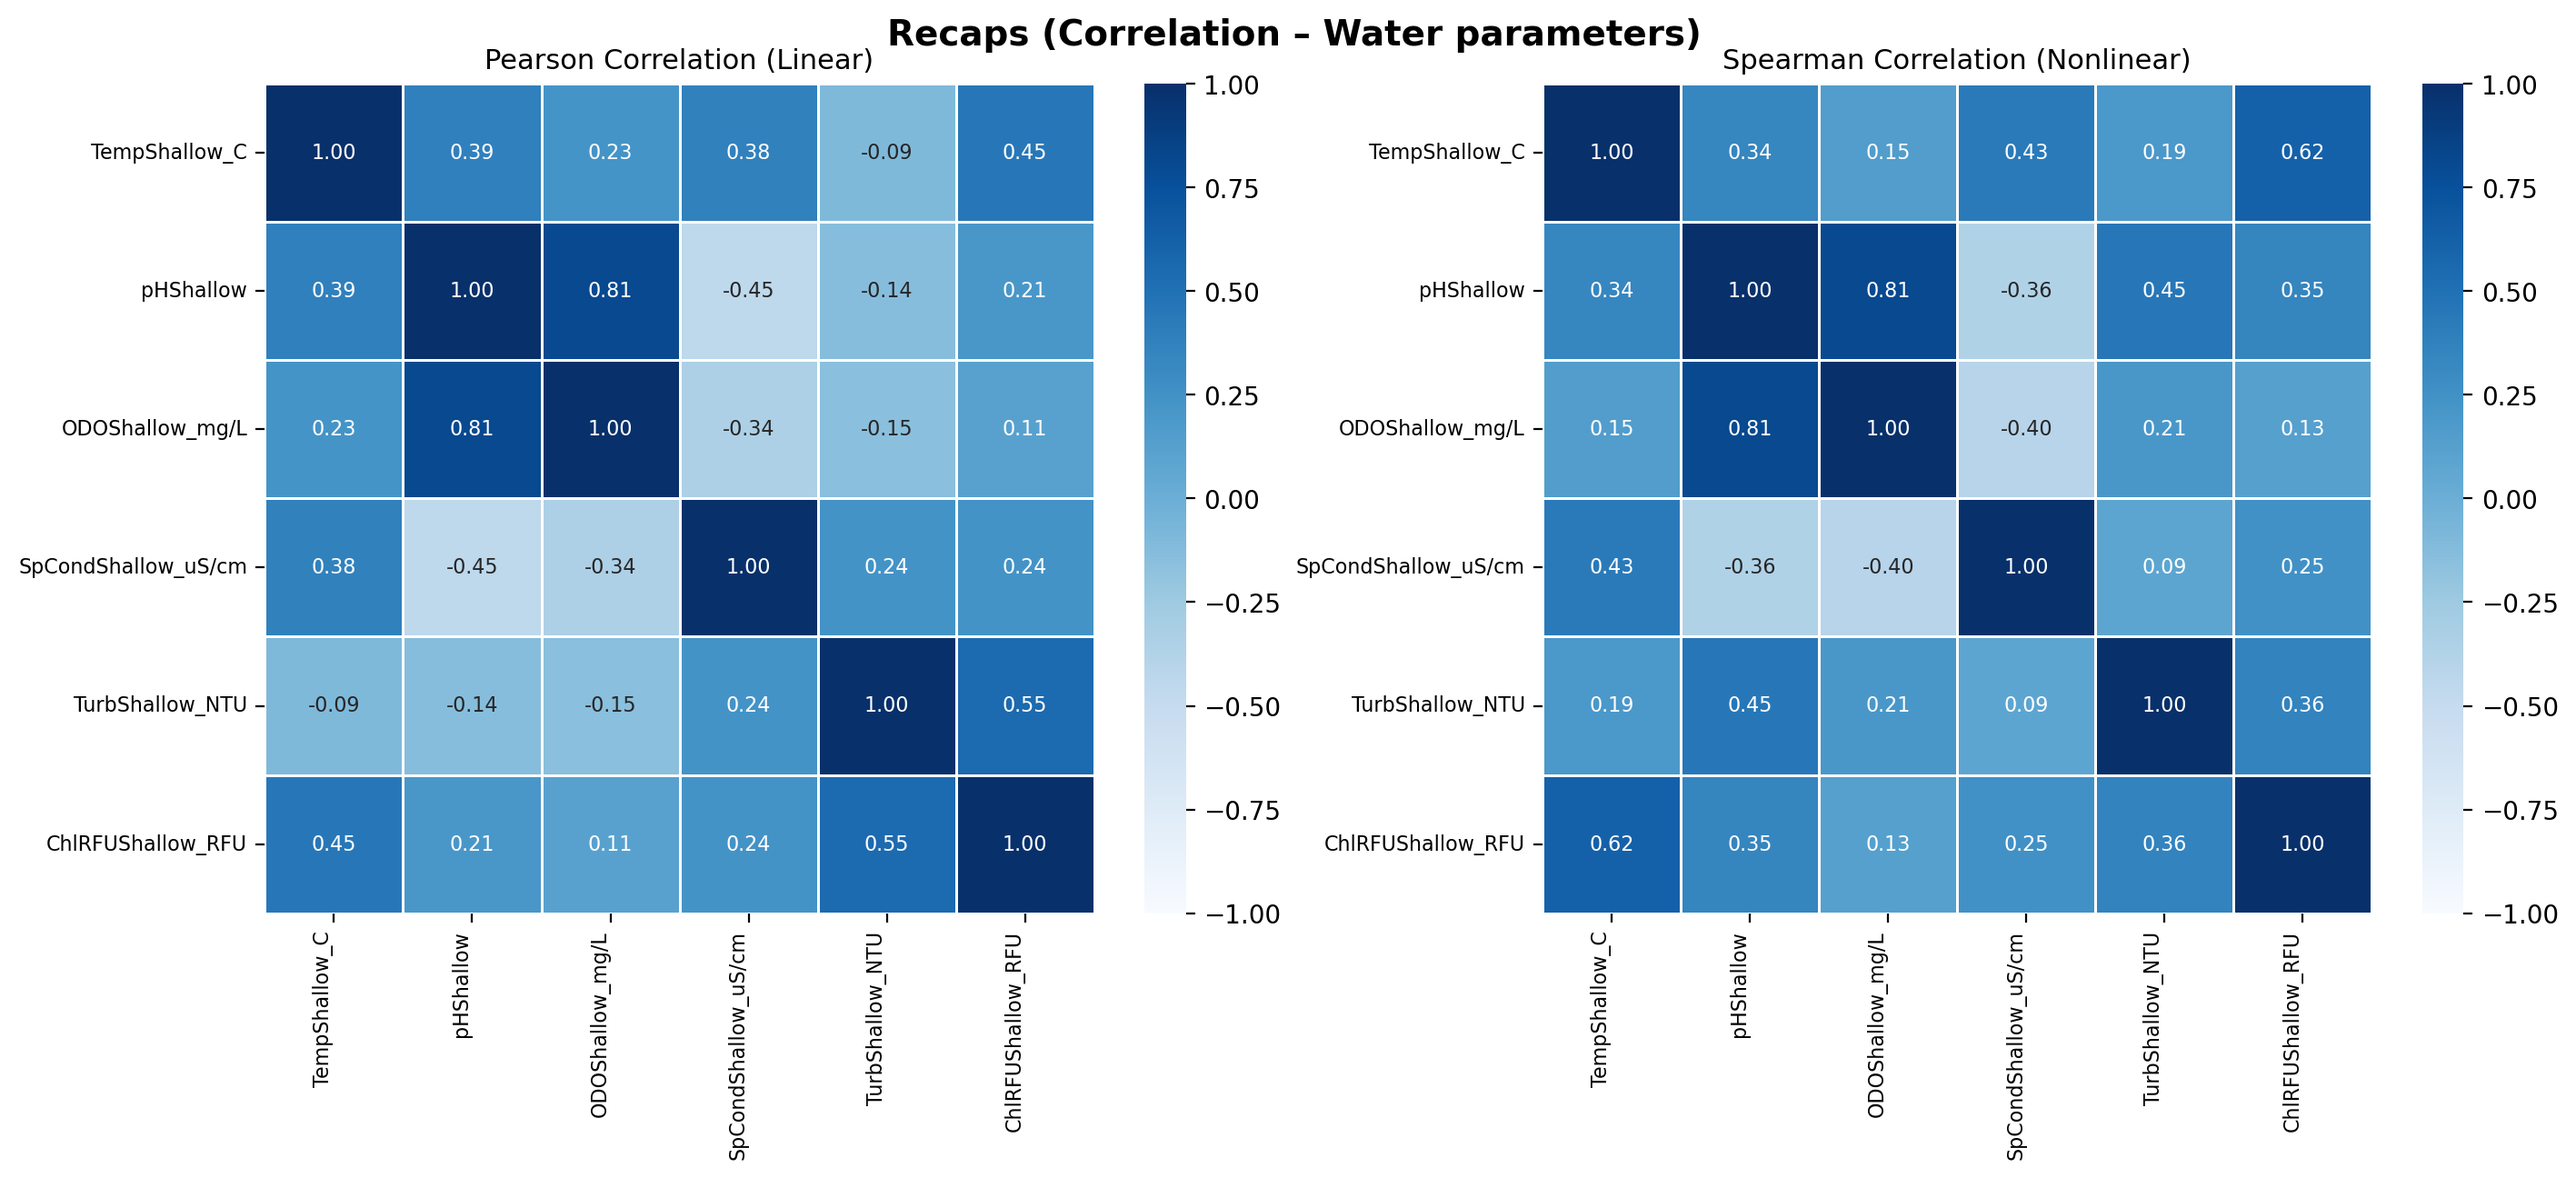
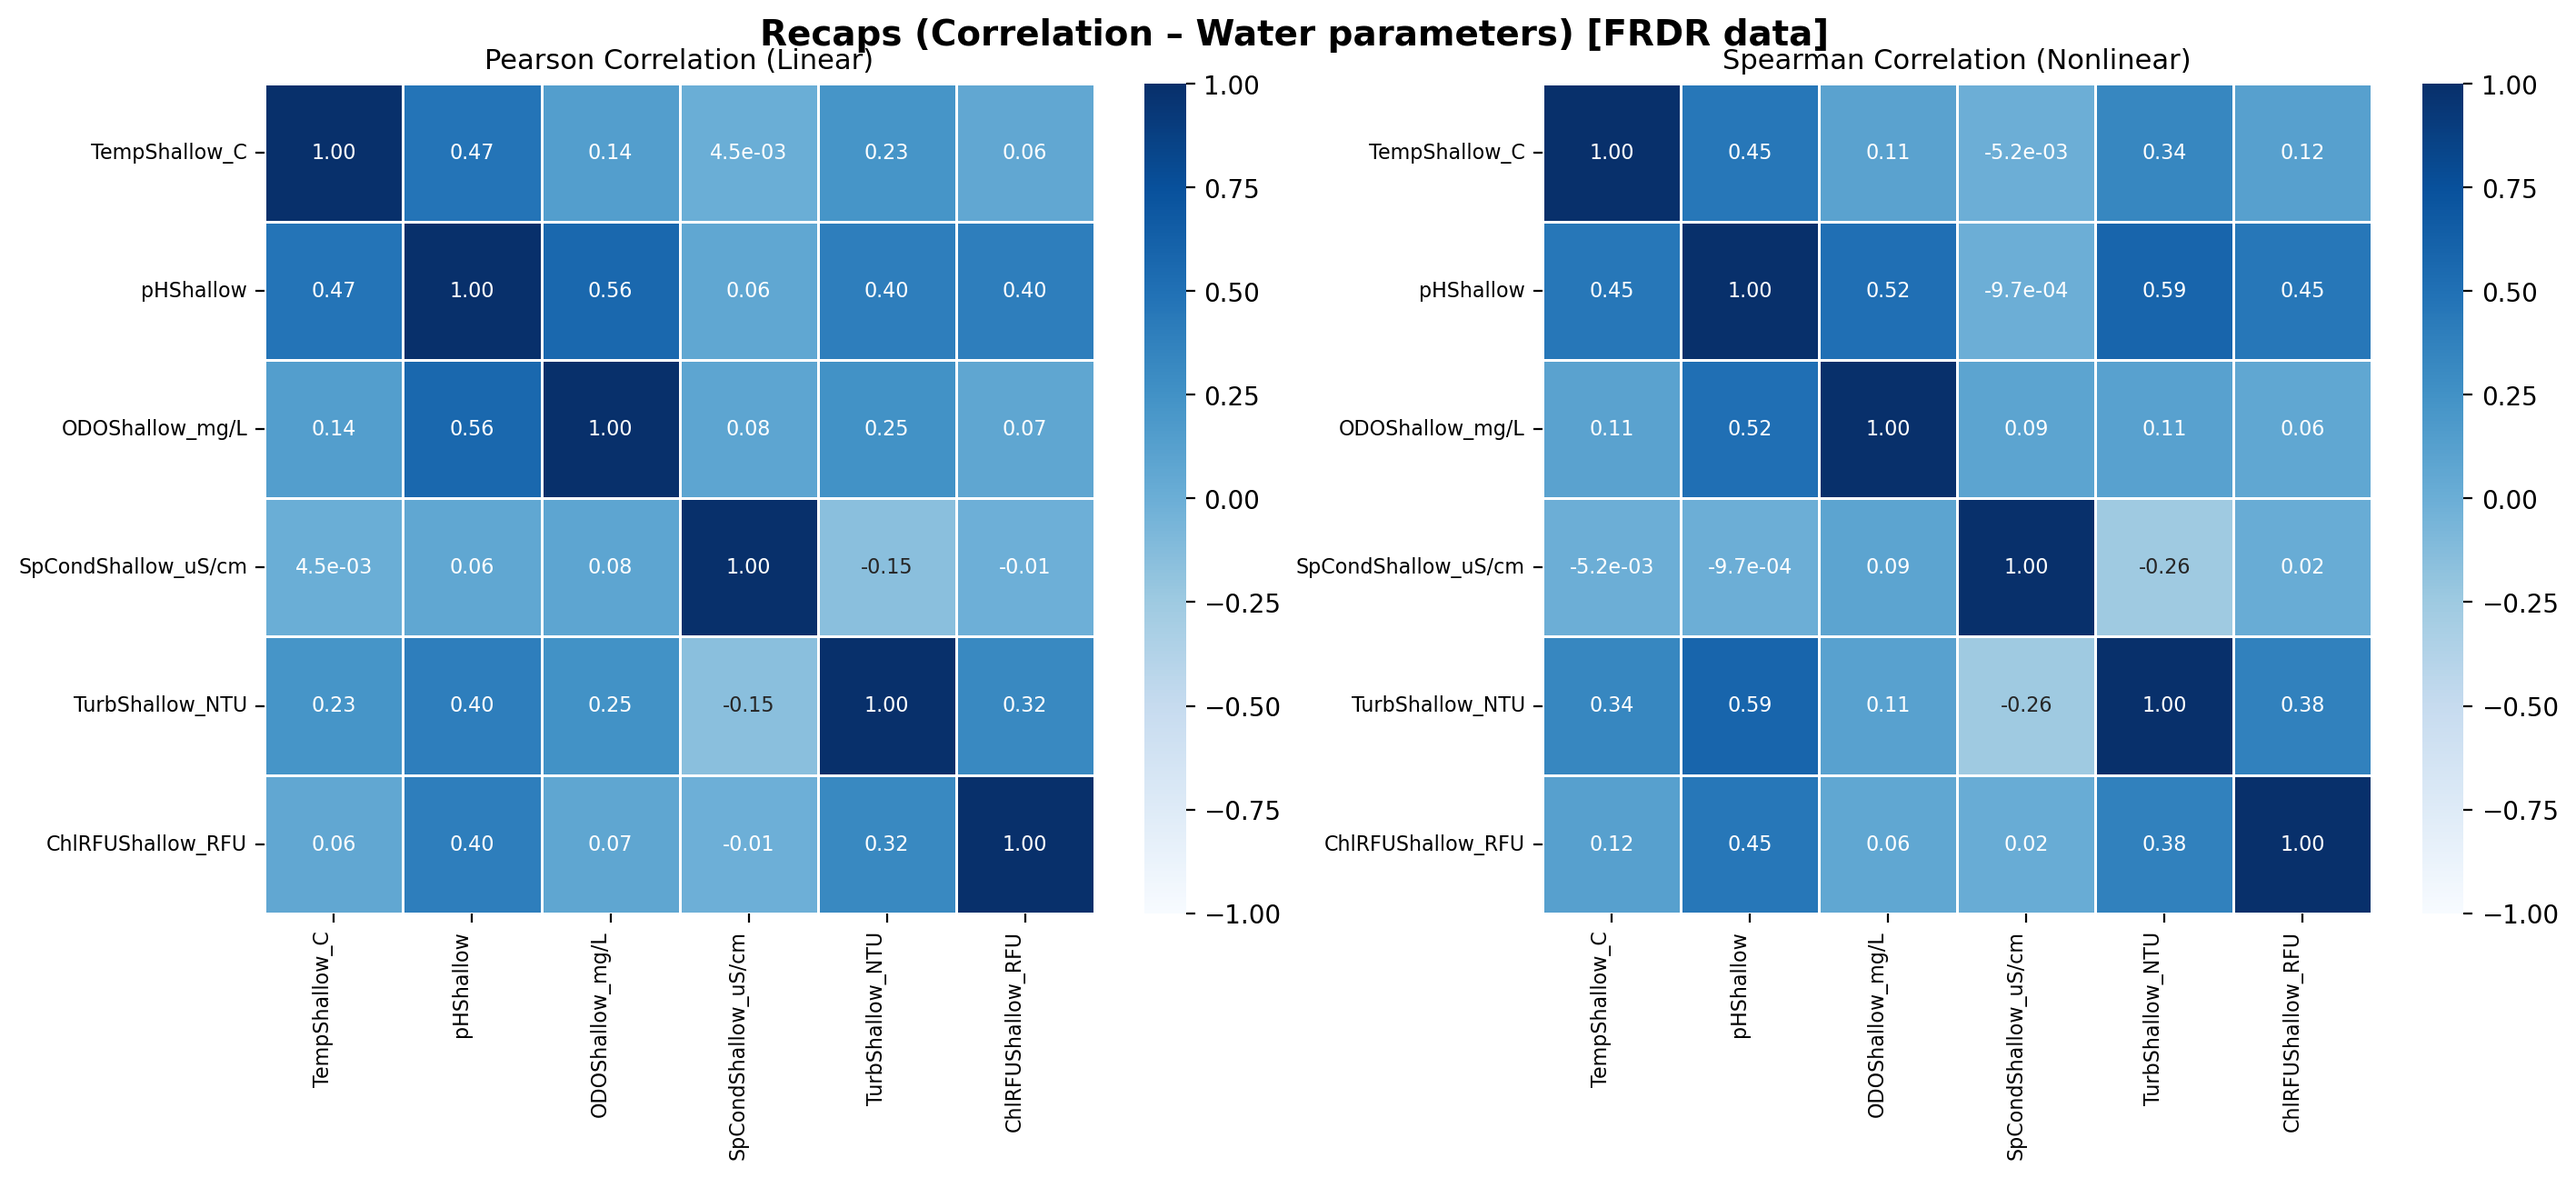
Improve outlier detection methods in shallow chlorophyll processing and update documentation for enhanced clarity on recent modifications.

Changed region(s): [[0.0932, 0.0, 0.7142, 0.7716], [0.59, 0.0617, 0.9315, 0.7716], [0.59, 0.6481, 0.6521, 0.7716]]

diff --git a/src/plot_aquaculture_correlation_slides.py b/src/plot_aquaculture_correlation_slides.py
@@ -1,5 +1,18 @@
+"""
+Ma trận tương quan Pearson / Spearman theo slide 6–7 (Aquaculture report),
+tính **trực tiếp** từ buoy FRDR (BPBuoyData_*_Cleaned.csv), không copy số từ slide.
+
+QC: bỏ quan giá trị khi có cờ B7 / C / M (giống ``chl_shallow_pipeline``).
+
+Chạy:  python -m src.plot_aquaculture_correlation_slides
+
+Ảnh PNG: ``refs/correlation_slide_plots/``
+Tùy chọn: lưu CSV ma trận (``--save-csv``).
+"""
+
 from __future__ import annotations
 
+import argparse
 from pathlib import Path
 
 import matplotlib.pyplot as plt
@@ -7,44 +20,24 @@ import numpy as np
 import pandas as pd
 import seaborn as sns
 
+from .chl_shallow_pipeline import EXCLUDE_FLAGS
+
 BASE_DIR = Path(__file__).resolve().parent.parent
-PDF_PATH = BASE_DIR / "refs" / "Aquaculture-report17_1.pdf"
+DATA_DIR = BASE_DIR / "FRDR_dataset_1095"
 OUTPUT_DIR = BASE_DIR / "refs" / "correlation_slide_plots"
 
-# --- Slide 6: Water parameters (Recaps Correlation – Water parameters)
-WATER_LABELS: tuple[str, ...] = (
+# Cột trong CSV (slide 6: nước — tên độ trong là TurbShallow_NTU+ trong FRDR)
+WATER_COLS: tuple[str, ...] = (
     "TempShallow_C",
     "pHShallow",
     "ODOShallow_mg/L",
     "SpCondShallow_uS/cm",
-    "TurbShallow_NTU",
+    "TurbShallow_NTU+",
     "ChlRFUShallow_RFU",
 )
 
-PEARSON_WATER = np.array(
-    [
-        [1.0, 0.39, 0.23, 0.38, -0.094, 0.45],
-        [0.39, 1.0, 0.81, -0.45, -0.14, 0.21],
-        [0.23, 0.81, 1.0, -0.34, -0.15, 0.11],
-        [0.38, -0.45, -0.34, 1.0, 0.24, 0.24],
-        [-0.094, -0.14, -0.15, 0.24, 1.0, 0.55],
-        [0.45, 0.21, 0.11, 0.24, 0.55, 1.0],
-    ]
-)
-
-SPEARMAN_WATER = np.array(
-    [
-        [1.0, 0.34, 0.15, 0.43, 0.19, 0.62],
-        [0.34, 1.0, 0.81, -0.36, 0.45, 0.35],
-        [0.15, 0.81, 1.0, -0.4, 0.21, 0.13],
-        [0.43, -0.36, -0.4, 1.0, 0.085, 0.25],
-        [0.19, 0.45, 0.21, 0.085, 1.0, 0.36],
-        [0.62, 0.35, 0.13, 0.25, 0.36, 1.0],
-    ]
-)
-
-# --- Slide 7: Meteorological (Recaps Correlation – Meteorological)
-MET_LABELS: tuple[str, ...] = (
+# Slide 7: khí tượng + Chl nông
+MET_COLS: tuple[str, ...] = (
     "BarometricPress_kPa",
     "RelativeHum_%",
     "WindSp_km/h",
@@ -53,36 +46,72 @@ MET_LABELS: tuple[str, ...] = (
     "ChlRFUShallow_RFU",
 )
 
-PEARSON_MET = np.array(
-    [
-        [1.0, -0.14, -0.28, -0.21, 0.028, 0.34],
-        [-0.14, 1.0, 0.026, 0.19, -0.61, 0.057],
-        [-0.28, 0.026, 1.0, 0.22, -0.076, -0.098],
-        [-0.21, 0.19, 0.22, 1.0, -0.14, 9.2e-5],
-        [0.028, -0.61, -0.076, -0.14, 1.0, 0.13],
-        [0.34, 0.057, -0.098, 9.2e-5, 0.13, 1.0],
-    ]
-)
 
-SPEARMAN_MET = np.array(
-    [
-        [1.0, -0.14, -0.24, -0.35, 0.051, 0.38],
-        [-0.14, 1.0, 0.0012, 0.22, -0.61, 0.011],
-        [-0.24, 0.0012, 1.0, 0.31, -0.048, -0.17],
-        [-0.35, 0.22, 0.31, 1.0, -0.16, -0.12],
-        [0.051, -0.61, -0.048, -0.16, 1.0, 0.33],
-        [0.38, 0.011, -0.17, -0.12, 0.33, 1.0],
-    ]
-)
+def _display_label(col: str) -> str:
+    """Nhãn hiển thị giống slide (TurbShallow_NTU thay vì TurbShallow_NTU+)."""
+    if col == "TurbShallow_NTU+":
+        return "TurbShallow_NTU"
+    return col
+
+
+def load_frdr_masked(data_dir: Path, cols: tuple[str, ...]) -> pd.DataFrame:
+    """Nối mọi năm Cleaned; mỗi cột chỉ giữ số khi không bị cờ B7/C/M."""
+    paths = sorted(data_dir.glob("BPBuoyData_*_Cleaned.csv"))
+    if not paths:
+        raise FileNotFoundError(f"No BPBuoyData_*_Cleaned.csv under {data_dir}")
+
+    frames: list[pd.DataFrame] = []
+    for p in paths:
+        header = pd.read_csv(p, nrows=0).columns.tolist()
+        flag_cols = [f"{c}_Flag" for c in cols]
+        usecols = ["DateTime"] + [c for c in cols if c in header]
+        usecols += [f for f in flag_cols if f in header]
+        missing = [c for c in cols if c not in header]
+        if missing:
+            raise KeyError(f"{p.name} missing columns: {missing}")
+
+        df = pd.read_csv(p, usecols=usecols, low_memory=False)
+        df["DateTime"] = pd.to_datetime(df["DateTime"], errors="coerce")
+        df = df.dropna(subset=["DateTime"])
+
+        block = pd.DataFrame({"DateTime": df["DateTime"]})
+        for col in cols:
+            v = pd.to_numeric(df[col], errors="coerce")
+            fc = f"{col}_Flag"
+            if fc in df.columns:
+                bad = (
+                    df[fc]
+                    .map(lambda x: str(x).strip() if pd.notna(x) else None)
+                    .isin(EXCLUDE_FLAGS)
+                )
+            else:
+                bad = pd.Series(False, index=df.index)
+            block[col] = np.where(~bad.to_numpy() & v.notna().to_numpy(), v, np.nan)
+
+        block["source_file"] = p.name
+        frames.append(block)
+
+    out = pd.concat(frames, ignore_index=True)
+    out = out.sort_values("DateTime").drop_duplicates(subset=["DateTime"], keep="first")
+    return out
+
+
+def correlation_matrices(df: pd.DataFrame, cols: tuple[str, ...]) -> tuple[pd.DataFrame, pd.DataFrame]:
+    """Pearson và Spearman (pandas: pairwise bỏ NaN theo từng cặp)."""
+    sub = df[list(cols)]
+    pearson = sub.corr(method="pearson", min_periods=1)
+    spearman = sub.corr(method="spearman", min_periods=1)
+    return pearson, spearman
 
 
 def _annot_labels(mat: np.ndarray) -> np.ndarray:
-    """Chuỗi trong ô: 2 chữ số thập phân; giá trị rất nhỏ dùng ký hiệu e."""
     out = np.empty(mat.shape, dtype=object)
     for i in range(mat.shape[0]):
         for j in range(mat.shape[1]):
             v = float(mat[i, j])
-            if abs(v) < 0.01 and v != 0.0:
+            if np.isnan(v):
+                out[i, j] = ""
+            elif abs(v) < 0.01 and v != 0.0:
                 out[i, j] = f"{v:.1e}"
             else:
                 out[i, j] = f"{v:.2f}"
@@ -90,8 +119,8 @@ def _annot_labels(mat: np.ndarray) -> np.ndarray:
 
 
 def _plot_pair(
-    pearson: np.ndarray,
-    spearman: np.ndarray,
+    pearson: pd.DataFrame,
+    spearman: pd.DataFrame,
     labels: tuple[str, ...],
     title_bar: str,
     outfile: Path,
@@ -103,19 +132,22 @@ def _plot_pair(
     vmin, vmax = -1.0, 1.0
     cbar_ticks = np.arange(-1.0, 1.01, 0.25)
 
-    for ax, mat, subt in zip(
+    for ax, mat_df, subt in zip(
         axes,
         (pearson, spearman),
         ("Pearson Correlation (Linear)", "Spearman Correlation (Nonlinear)"),
     ):
-        df = pd.DataFrame(mat, index=labels, columns=labels)
+        mat = mat_df.to_numpy(dtype=float)
+        plot_df = mat_df.copy()
+        plot_df.index = labels
+        plot_df.columns = labels
+
         sns.heatmap(
-            df,
+            plot_df,
             ax=ax,
             cmap=cmap,
             vmin=vmin,
             vmax=vmax,
-            center=None,
             square=True,
             annot=_annot_labels(mat),
             fmt="",
@@ -134,28 +166,77 @@ def _plot_pair(
     plt.close(fig)
 
 
+def _print_summary(name: str, df: pd.DataFrame, cols: tuple[str, ...]) -> None:
+    sub = df[list(cols)]
+    n_rows = len(sub)
+    n_complete = sub.dropna().shape[0]
+    print(f"[{name}] timestamps: {n_rows:,} | rows with all 6 vars non-NaN: {n_complete:,}")
+
+
 def main() -> None:
-    if not PDF_PATH.is_file():
-        print(f"Warning: PDF not found at {PDF_PATH} (matrices are still plotted from embedded constants).")
+    parser = argparse.ArgumentParser(description="Correlation heatmaps from FRDR buoy data.")
+    parser.add_argument(
+        "--data-dir",
+        type=Path,
+        default=DATA_DIR,
+        help="Folder with BPBuoyData_*_Cleaned.csv (default: FRDR_dataset_1095)",
+    )
+    parser.add_argument(
+        "--save-csv",
+        action="store_true",
+        help=f"Also write pearson/spearman CSVs next to PNGs under {OUTPUT_DIR}",
+    )
+    args = parser.parse_args()
+
+    if not args.data_dir.is_dir():
+        raise FileNotFoundError(args.data_dir)
 
     OUTPUT_DIR.mkdir(parents=True, exist_ok=True)
 
+    # Water + met share Chl; load union of columns once for efficiency
+    all_cols = tuple(dict.fromkeys(WATER_COLS + MET_COLS))
+    raw = load_frdr_masked(args.data_dir, all_cols)
+
+    water_labels = tuple(_display_label(c) for c in WATER_COLS)
+    met_labels = tuple(_display_label(c) for c in MET_COLS)
+
+    _print_summary("water", raw, WATER_COLS)
+    p_w, s_w = correlation_matrices(raw, WATER_COLS)
+    p_w.index = p_w.columns = water_labels
+    s_w.index = s_w.columns = water_labels
+
+    _print_summary("met", raw, MET_COLS)
+    p_m, s_m = correlation_matrices(raw, MET_COLS)
+    p_m.index = p_m.columns = met_labels
+    s_m.index = s_m.columns = met_labels
+
     _plot_pair(
-        PEARSON_WATER,
-        SPEARMAN_WATER,
-        WATER_LABELS,
-        "Recaps (Correlation – Water parameters)",
+        p_w,
+        s_w,
+        water_labels,
+        "Recaps (Correlation – Water parameters) [FRDR data]",
         OUTPUT_DIR / "page06_water_correlation.png",
     )
     _plot_pair(
-        PEARSON_MET,
-        SPEARMAN_MET,
-        MET_LABELS,
-        "Recaps (Correlation – Meteorological)",
+        p_m,
+        s_m,
+        met_labels,
+        "Recaps (Correlation – Meteorological) [FRDR data]",
         OUTPUT_DIR / "page07_meteorological_correlation.png",
     )
 
-    print(f"Saved:\n  {OUTPUT_DIR / 'page06_water_correlation.png'}\n  {OUTPUT_DIR / 'page07_meteorological_correlation.png'}")
+    if args.save_csv:
+        p_w.to_csv(OUTPUT_DIR / "page06_pearson.csv")
+        s_w.to_csv(OUTPUT_DIR / "page06_spearman.csv")
+        p_m.to_csv(OUTPUT_DIR / "page07_pearson.csv")
+        s_m.to_csv(OUTPUT_DIR / "page07_spearman.csv")
+        print(f"CSV matrices saved under {OUTPUT_DIR}")
+
+    print(
+        "Saved:\n"
+        f"  {OUTPUT_DIR / 'page06_water_correlation.png'}\n"
+        f"  {OUTPUT_DIR / 'page07_meteorological_correlation.png'}"
+    )
 
 
 if __name__ == "__main__":
